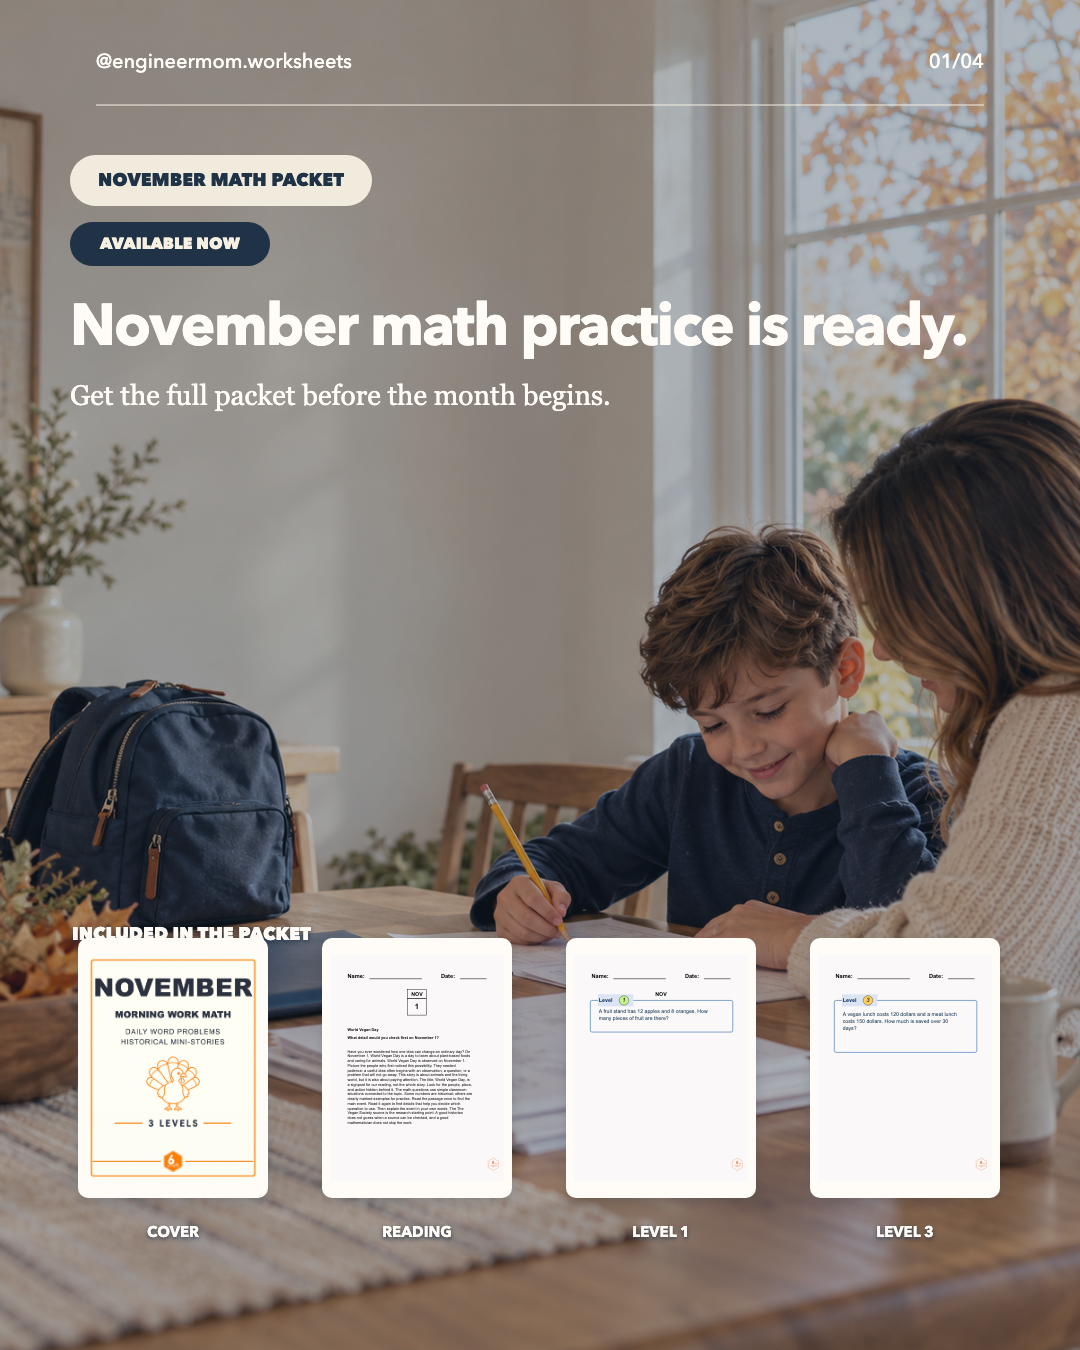
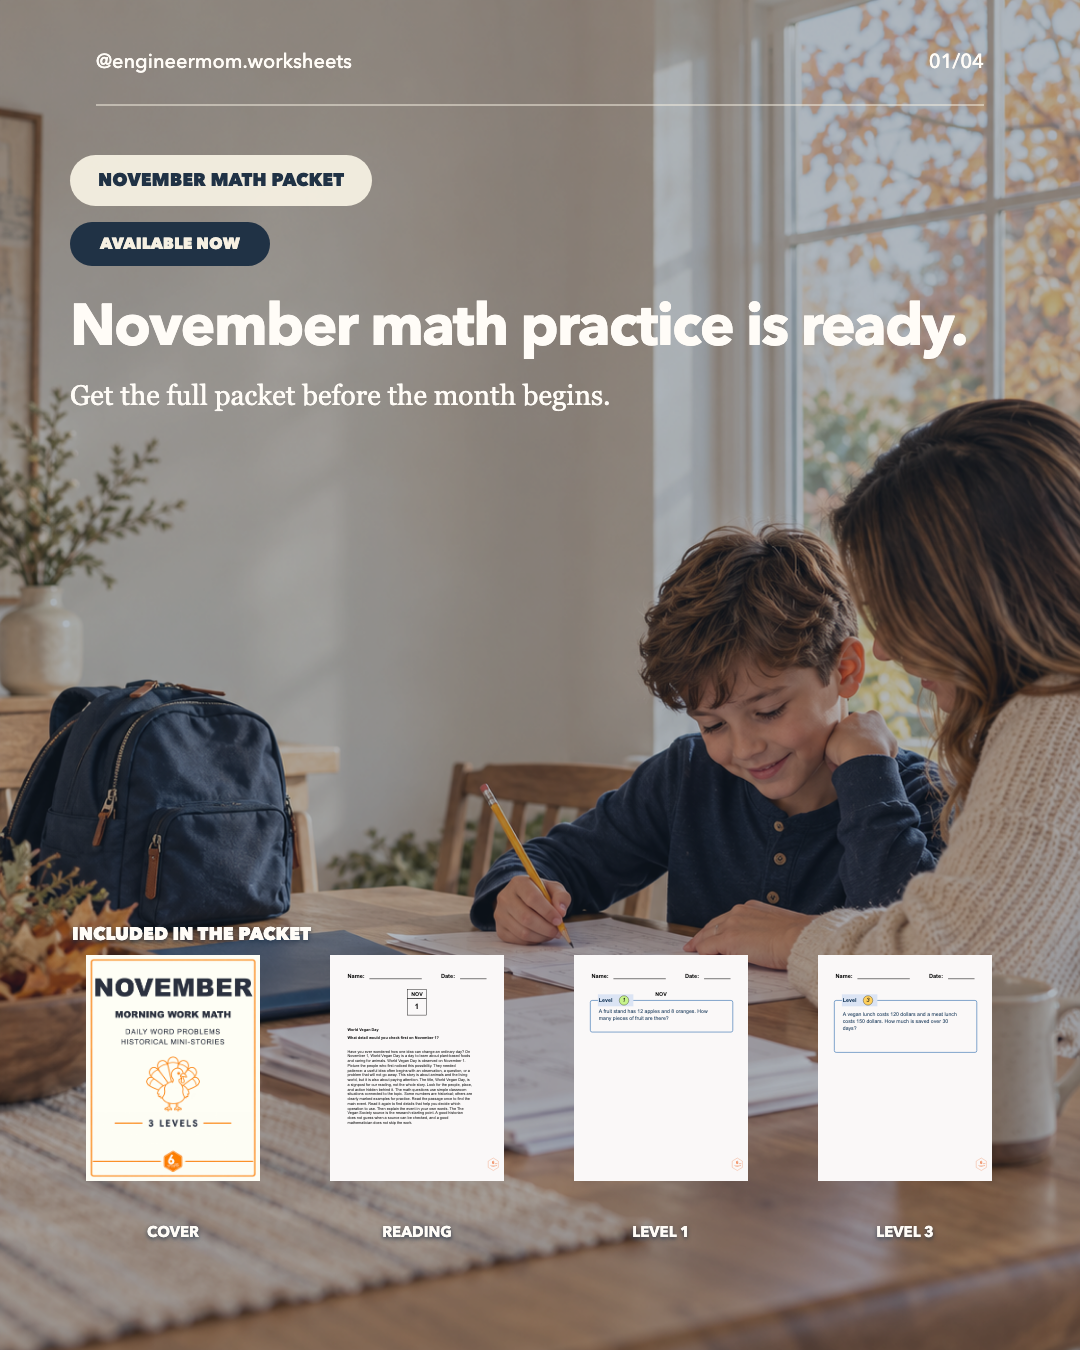
fix: remove worksheet card color contrast

Changed region(s): [[0.0611, 0.6844, 0.4889, 0.9022], [0.7333, 0.6844, 0.9472, 0.9022], [0.5194, 0.6844, 0.7028, 0.9022]]

diff --git a/social/product-carousel-template/README.md b/social/product-carousel-template/README.md
@@ -11,7 +11,7 @@ This is the reusable monthly Product Carousel for `@engineermom.worksheets`.
 - Slide 2: six packet pages in two rows: Level 1, Level 2, Level 3.
 - Slide 3: six representative reading-passage pages. The title shows the full monthly count: `30 DAILY READINGS.` or `31 DAILY READINGS.` depending on the month.
 - Slide 4: fixed profile CTA using the back-view profile asset and link-in-bio language.
-- Worksheet cards preserve the full page and use a small `10px` corner radius; no answer key is exposed in the Cover preview.
+- Worksheet cards preserve the full page and use a small `10px` corner radius; the renderer adds no separate white backing panel or shadow, so the only paper color comes from the source worksheet itself. No answer key is exposed in the Cover preview.
 
 ## Monthly variants
 

diff --git a/skills/product-carousel/SKILL.md b/skills/product-carousel/SKILL.md
@@ -34,6 +34,7 @@ constraints. It does not publish to Instagram.
 - Keep the canvas at `1080x1350`.
 - Do not show answer-key pages in the public carousel.
 - Preserve worksheet page proportions; never crop worksheet content.
+- Do not add a contrasting white backing panel or drop shadow behind worksheet cards; preserve the source worksheet paper appearance against the carousel background.
 - Keep Slide 2 and Slide 3 source-backed by the month packet.
 - Slide 3 title must represent the complete monthly reading library: `30 DAILY READINGS.` or `31 DAILY READINGS.` based on the discovered `NN-reading-passage.svg` count. The visual remains the original six readable sample cards.
 - Do not invent sale/free claims for the campaign-aligned variant.
